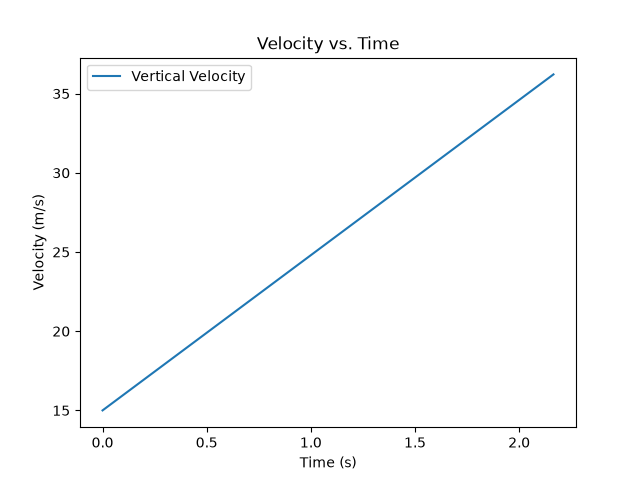
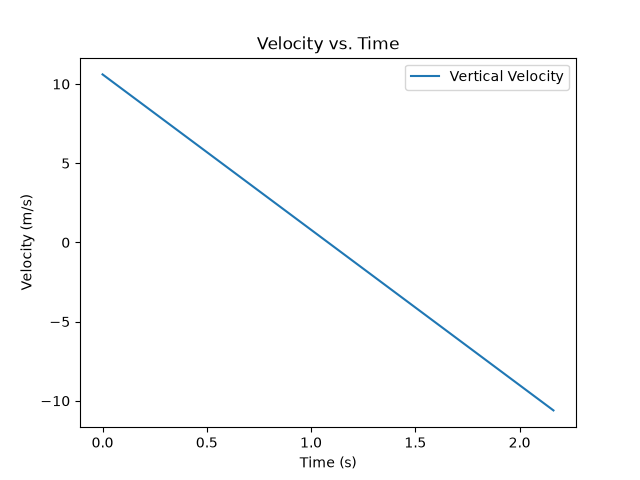
Fixed bugs with underlying physics equations and improved function documentation

diff --git a/projectileInvestigationTool/investigation.py b/projectileInvestigationTool/investigation.py
@@ -8,7 +8,7 @@ import matplotlib.pyplot as plt
 def main():
     v0, launch_angle, y0, g = get_constants()
     radian_angle = np.deg2rad(launch_angle)
-    time_final = flight_time(radian_angle, v0, g)
+    time_final = flight_time(radian_angle, v0, g, y0)
     time = np.linspace(0, time_final, 100)
 
     # Print time of flight
@@ -20,10 +20,10 @@ def main():
 
     # Save Trajectory Data
     data = np.column_stack((time, x, y))
-    save_data(data, "trajectory_data.txt", "Time x y")
+    print(save_data(data, "trajectory_data.txt", "Time x y"))
 
     # Find Vertical Velocity
-    velocity = calculate_velocity(v0, g, time)
+    velocity = calculate_velocity(v0, radian_angle, g, time)
 
     # Print range (based on available sample points)
     print(f"The total range is {np.max(x)} m")
@@ -79,11 +79,11 @@ def get_constants():
     return v0, launch_angle, y0, g
 
 
-def flight_time(angle, v_0, g):
+def flight_time(angle, v_0, g, y_0):
     """
-    Takes as input an angle in radians and calculates the total flight time of a projectile
+    Takes as input an angle in radians, initial velocity, acceleration due to gravity, and initial position; then calculates the total flight time of a projectile.
     """
-    t = (2 * v_0 * np.sin(angle)) / g
+    t = (v_0 * np.sin(angle) + np.sqrt((v_0*np.sin(angle))**2 + 2*g*y_0))/g
 
     return t
 
@@ -111,16 +111,22 @@ def plot_values(x, y, xlabel, ylabel, title, labels, save):
         ax.plot(x, value, label=label)
 
     ax.legend()
-    plt.savefig(save)
+    fig.savefig(save)
     plt.show()
 
 
-def calculate_velocity(v_initial, a, t):
-    v = v_initial + a * t
+def calculate_velocity(v_initial, angle, a, t):
+    """
+    Calculates the velocity of a projectile given as input the initial velocity, angle in radians, acceleration, and time.
+    """
+    v = v_initial*np.sin(angle) - a * t
     return v
 
 
 def save_data(data, file_name, header):
+    """
+    Saves data to a text file. Takes the data to be saved, the file_name, and header as input.
+    """
     np.savetxt(
         file_name,
         data,
@@ -128,7 +134,7 @@ def save_data(data, file_name, header):
         header=header,
     )
 
-    print(f"Data saved successfully!")
+    return f"Data saved successfully!"
 
 
 if __name__ == "__main__":
